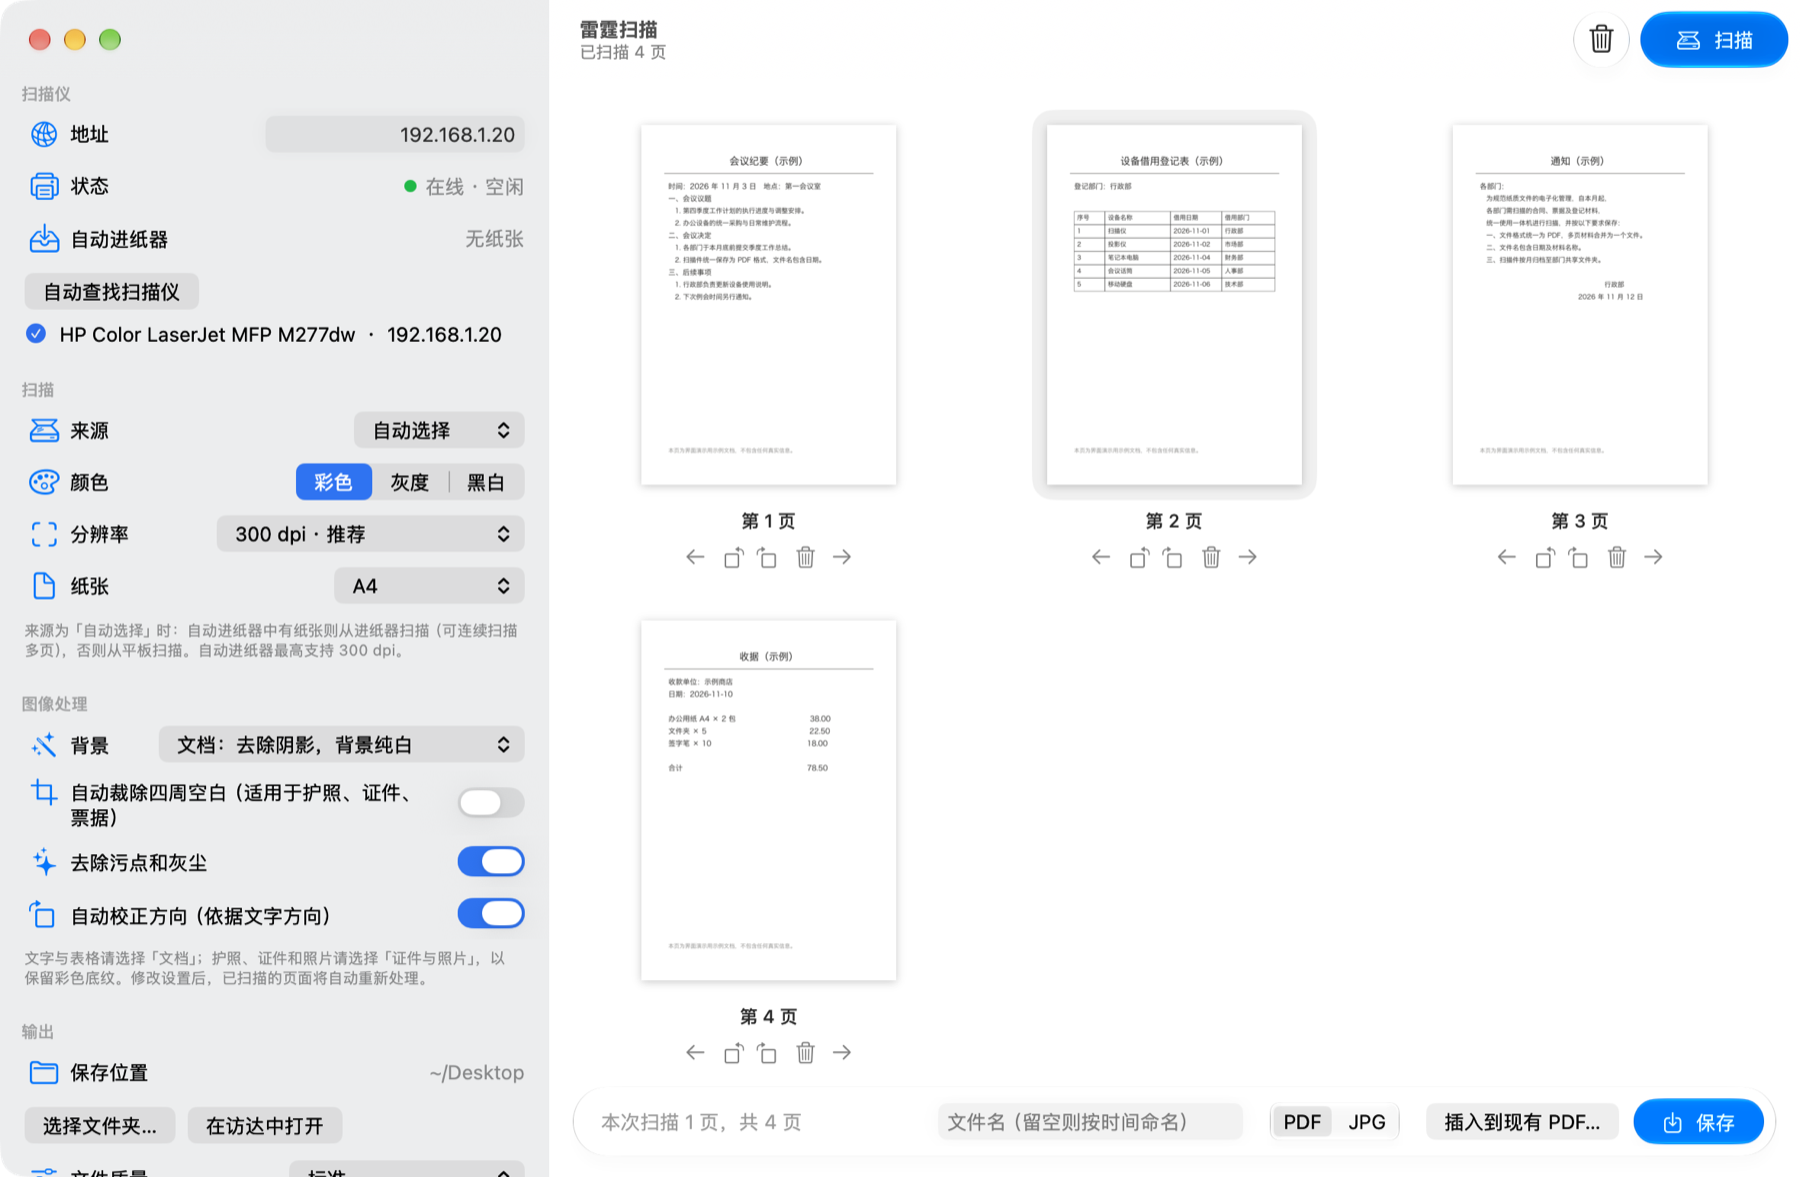
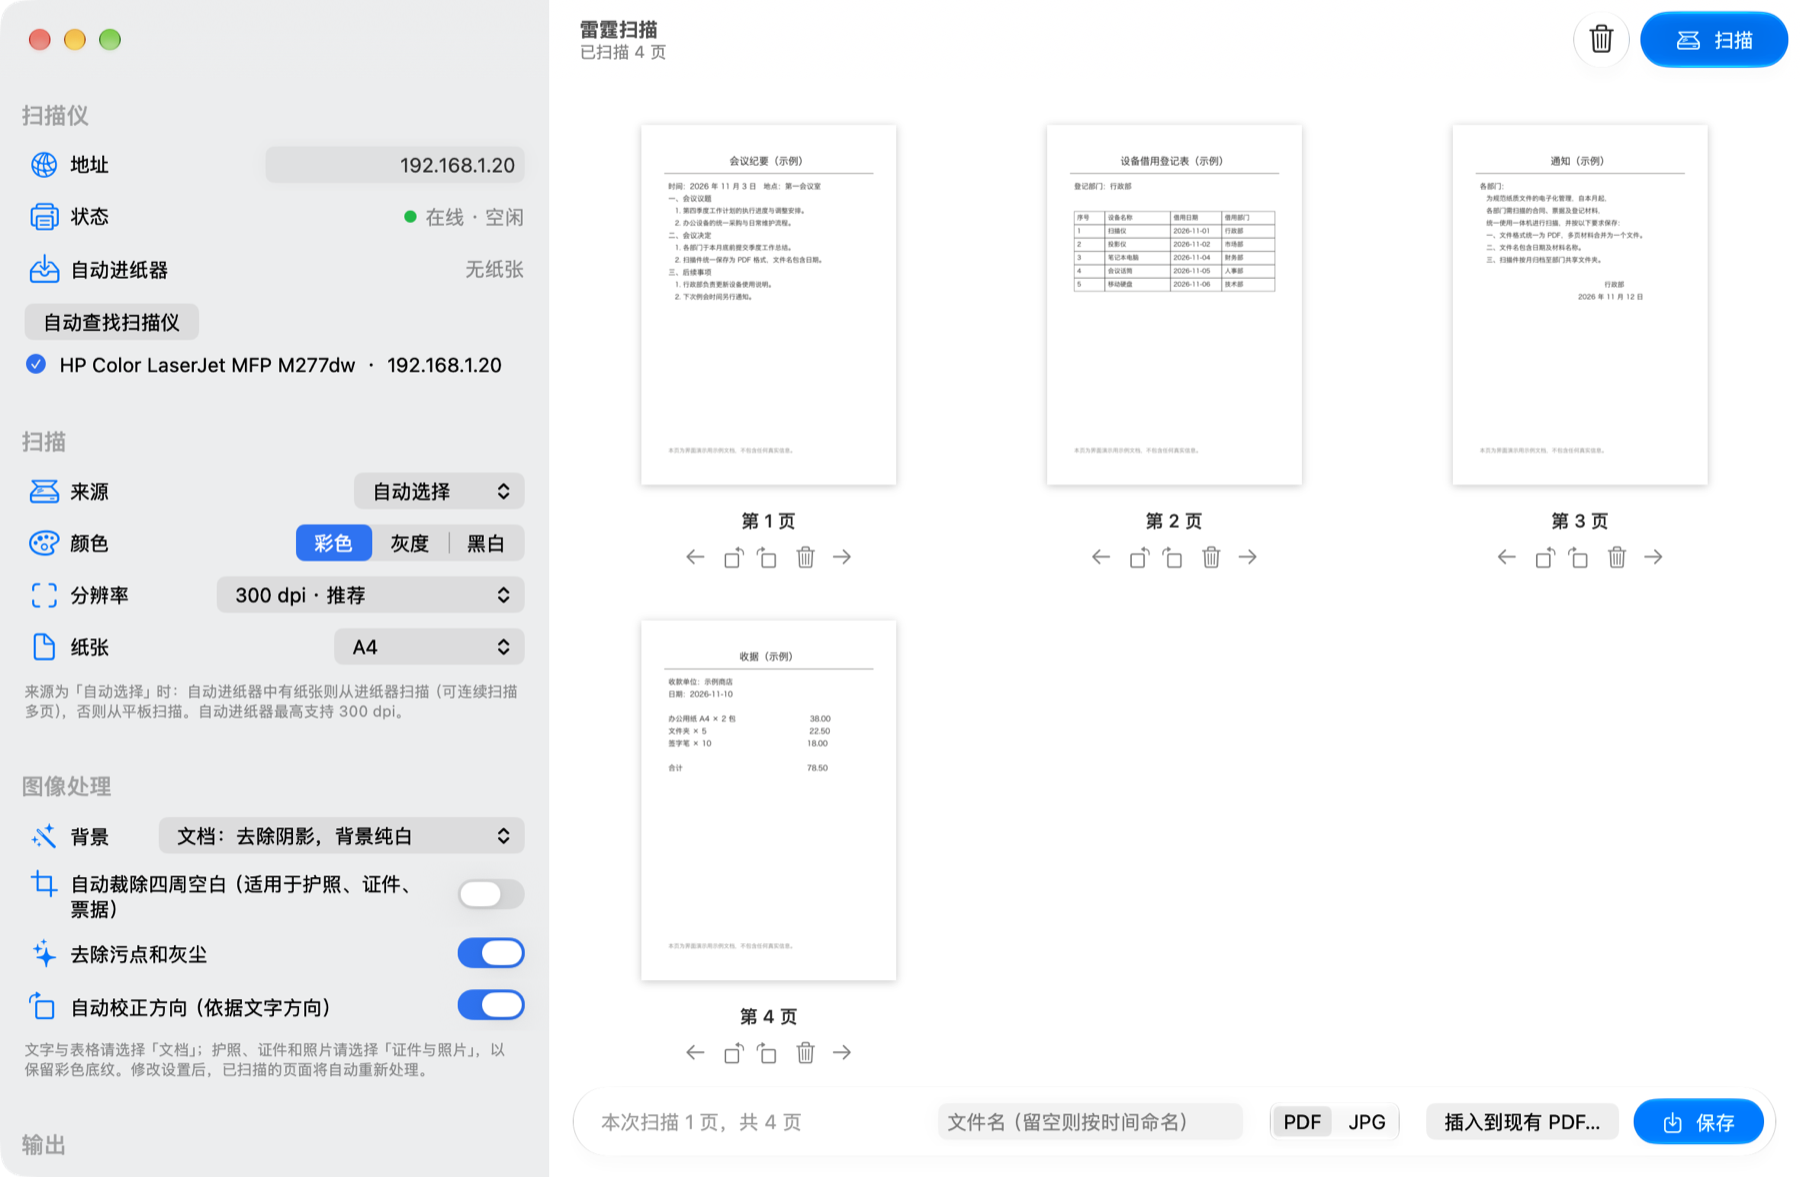
侧栏分组标题加大到 15pt 半粗体，标题上下间距加大

Changed region(s): [[0.0, 0.0612, 0.3111, 0.9176], [0.2178, 0.0918, 0.3111, 0.2447], [0.0, 0.9482, 0.1867, 1.0]]

diff --git a/ScanApp.swift b/ScanApp.swift
@@ -1318,7 +1318,11 @@ struct SettingsCard<Content: View>: View {
                         .padding(.vertical, 2)
                 }
             } header: {
+                // 分组标题：比系统默认（约 11pt）大，上下留出更多间距
                 Text(title)
+                    .font(.system(size: 15, weight: .semibold))
+                    .padding(.top, 14)
+                    .padding(.bottom, 6)
             }
         } else {
             card
